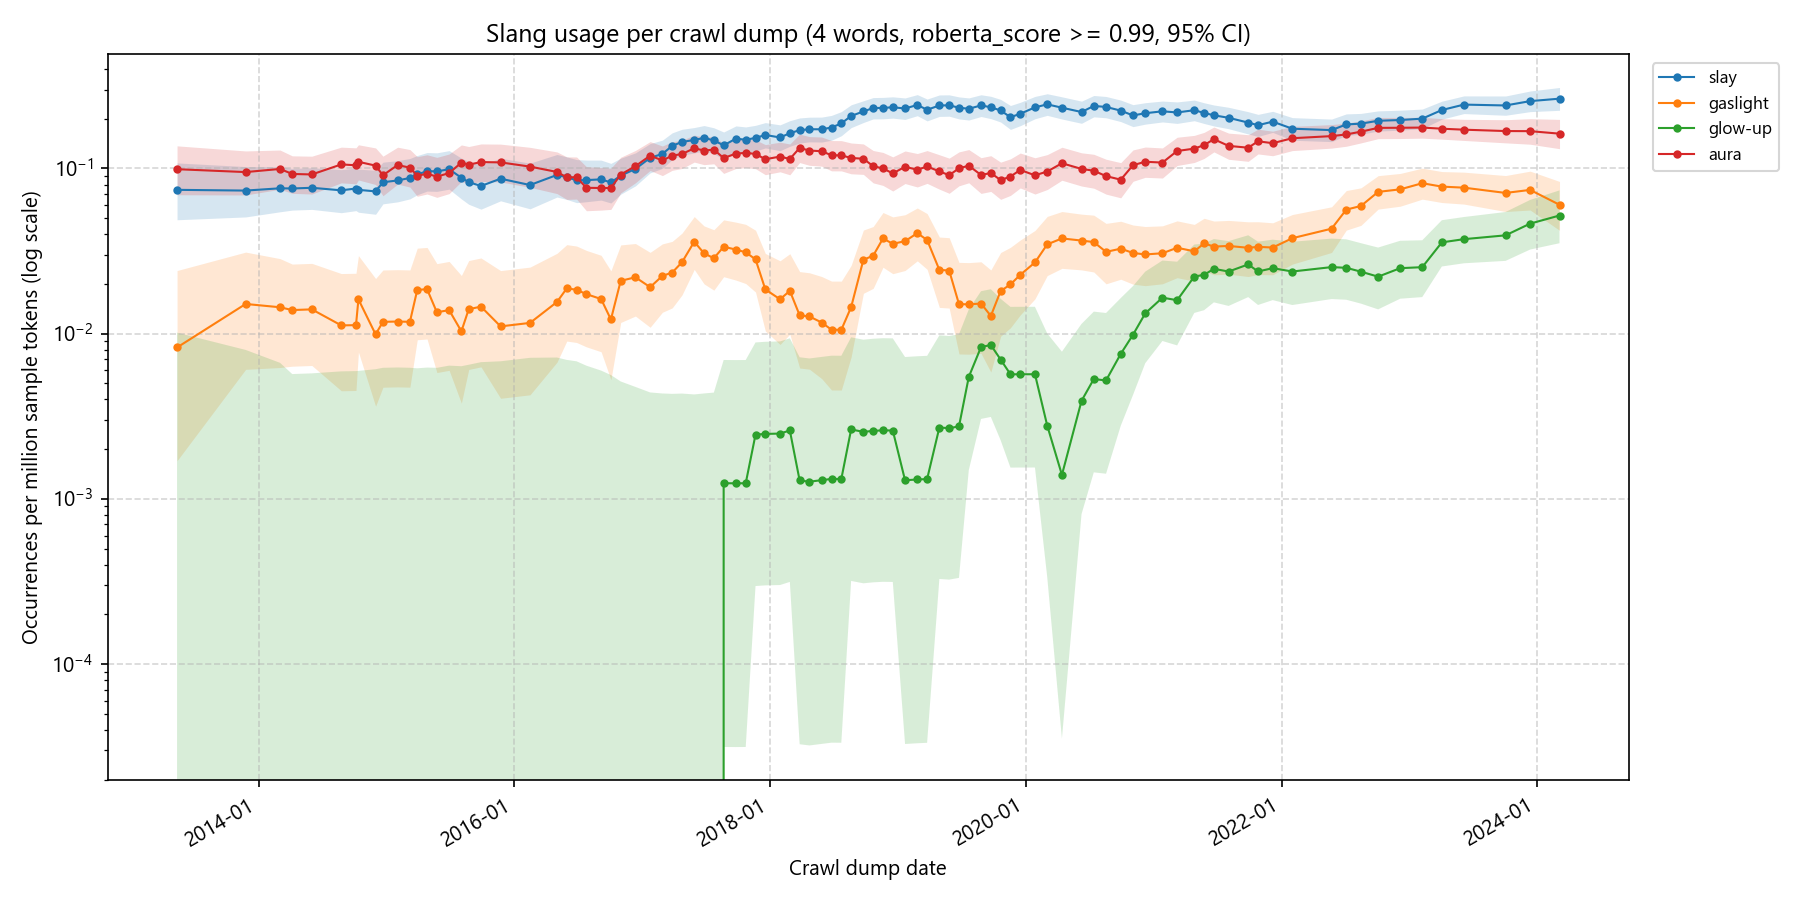
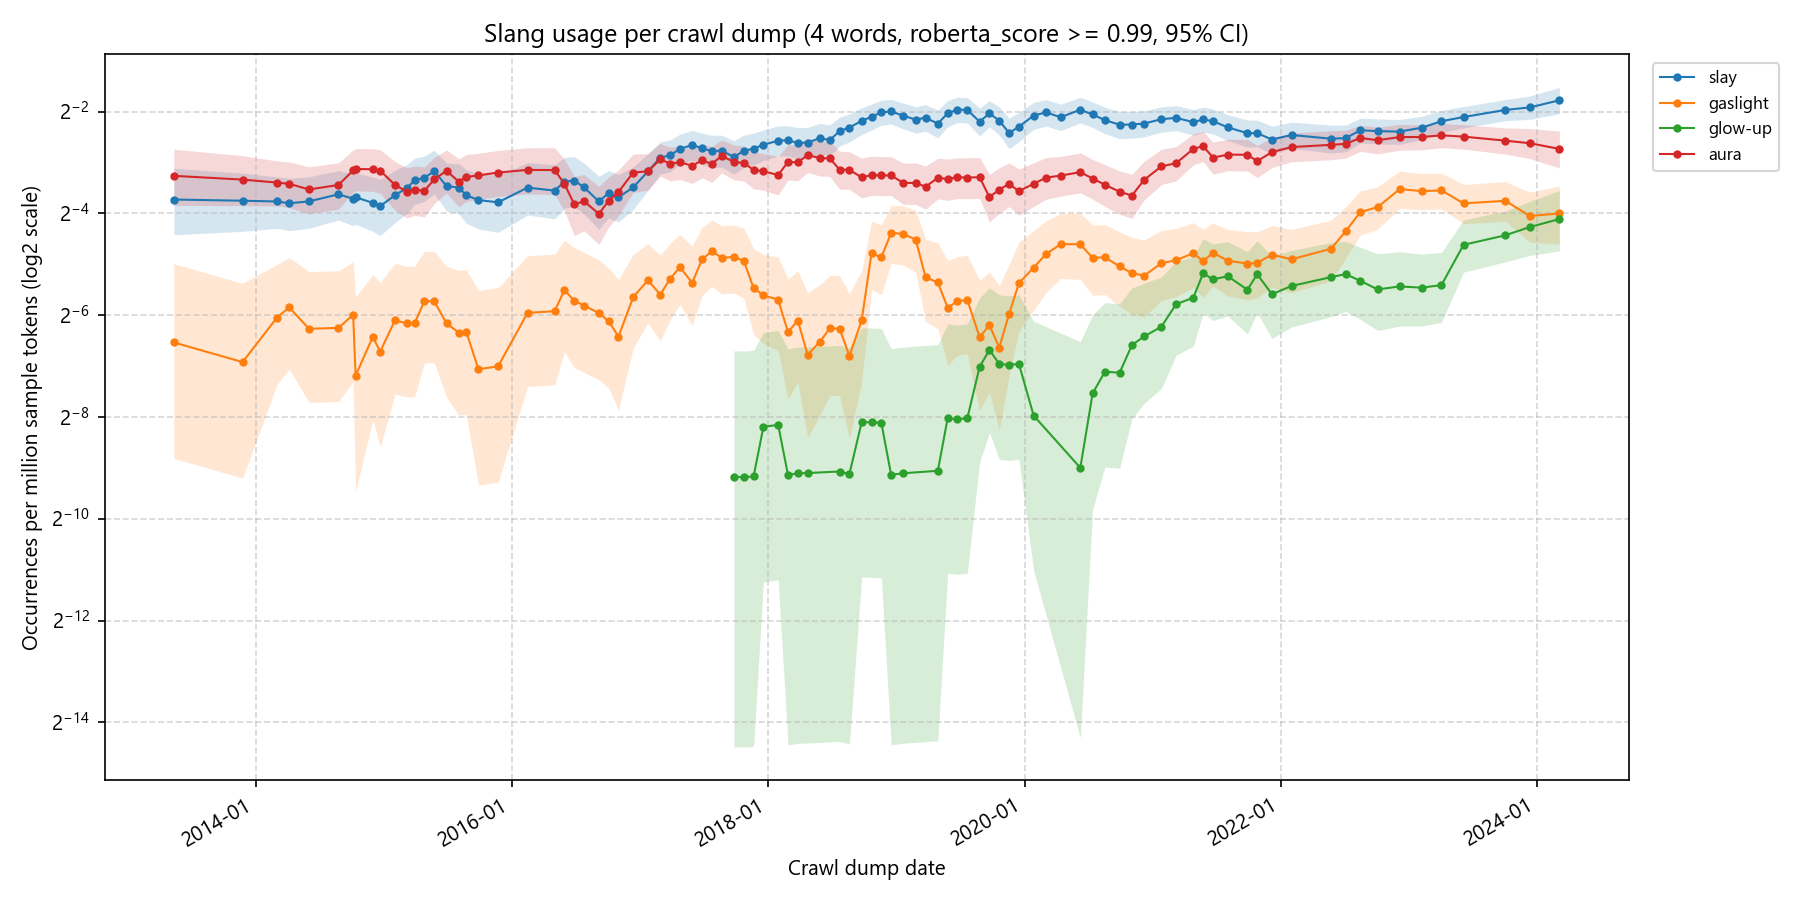
Update wrod rate plotter to use log2 for log scale, and collect the raw percentages as well, to illustrate peaks better

diff --git a/writing/draft.tex b/writing/draft.tex
@@ -262,7 +262,7 @@ where \textit{w} is a target word and \textit{d} is a crawl dump. Per-dump token
 
 \textbf{Uncertainty.} The 10BT sample is a random draw from FineWeb, so a per-dump occurrence count $k$ is modeled as $k \sim \text{Poisson}(r_{w,d}\cdot \text{tokens}(d))$. We report the exact Poisson interval (95\% by default) as a shaded band around each word's rate curve; bands are wide for rare words and tight for common ones.
 
-\textbf{Output.} For each target word we plot $r_{w,d}$ against dump date on a log scale, producing the temporal frequency curves in Section~\ref{sec:exp1}. These curves are the corpus ground truth against which the LLM probing distributions are compared.
+\textbf{Output.} For each target word we plot $r_{w,d}$ against dump date on a $\log_2$ scale, producing the temporal frequency curves in Section~\ref{sec:exp1}. These curves are the corpus ground truth against which the LLM probing distributions are compared.
 
 \todo{Document the RoBERTa sense-classifier training data and held-out accuracy (\texttt{FineWebAnalysis/finetune\_roberta.py}). Report the FineWeb sample token totals per dump used as denominators.}
 
@@ -348,7 +348,7 @@ The corpus curves confirm that the target words exhibit the ephemeral lifecycles
 \begin{figure}
     \centering
     \includegraphics[width=1.0\linewidth]{highlight_pre2018.png}
-    \caption{Slang-sense occurrences per million tokens by FineWeb crawl dump (log scale, RoBERTa score $\geq 0.99$, 95\% Poisson CI) for the pre-2018 band (\textit{lol, sick, troll, bro, swag}). \textit{lol} is the most frequent term throughout but declines steadily after $\sim$2018; \textit{swag} drifts downward, while \textit{sick}, \textit{troll}, and \textit{bro} are comparatively stable.}
+    \caption{Slang-sense occurrences per million tokens by FineWeb crawl dump ($\log_2$ scale, RoBERTa score $\geq 0.99$, 95\% Poisson CI) for the pre-2018 band (\textit{lol, sick, troll, bro, swag}). \textit{lol} is the most frequent term throughout but declines steadily after $\sim$2018; \textit{swag} drifts downward, while \textit{sick}, \textit{troll}, and \textit{bro} are comparatively stable.}
     \label{fig:cc-pre2018}
 \end{figure}
 

diff --git a/FineWebAnalysis/word_rate_plotter.py b/FineWebAnalysis/word_rate_plotter.py
@@ -234,14 +234,27 @@ def _render_chart(
     output: Optional[Path],
     bands: Optional[Dict[str, tuple]] = None,
 ) -> None:
-    """Draw one chart from precomputed per-word series (with optional CI bands)."""
+    """Draw one chart from precomputed per-word series (with optional CI bands).
+
+    Dumps where a word has zero occurrences are dropped rather than plotted at 0:
+    a 0 is invalid on a log axis (and a misleading dive to the floor on a linear
+    one), so we skip those points and let the line connect the neighboring dumps.
+    """
     fig, ax = plt.subplots(figsize=(12, 6))
     for target, ys in series.items():
-        line, = ax.plot(dumps, ys, marker="o", markersize=3, linewidth=1, label=target)
+        kept = [(d, y) for d, y in zip(dumps, ys) if y > 0]
+        if not kept:
+            continue  # word has no non-zero dumps to draw
+        xs_t, ys_t = zip(*kept)
+        line, = ax.plot(xs_t, ys_t, marker="o", markersize=3, linewidth=1, label=target)
         if bands and target in bands:
             lo, hi = bands[target]
-            ax.fill_between(dumps, lo, hi, color=line.get_color(),
-                            alpha=0.18, linewidth=0)
+            # Mask the band to the same non-zero dumps so it tracks the line.
+            band = [(d, l, h) for d, y, l, h in zip(dumps, ys, lo, hi) if y > 0]
+            if band:
+                bx, bl, bh = zip(*band)
+                ax.fill_between(bx, bl, bh, color=line.get_color(),
+                                alpha=0.18, linewidth=0)
 
     unit = ("Occurrences in dump" if dump_tokens is None
             else "Occurrences per million sample tokens")
